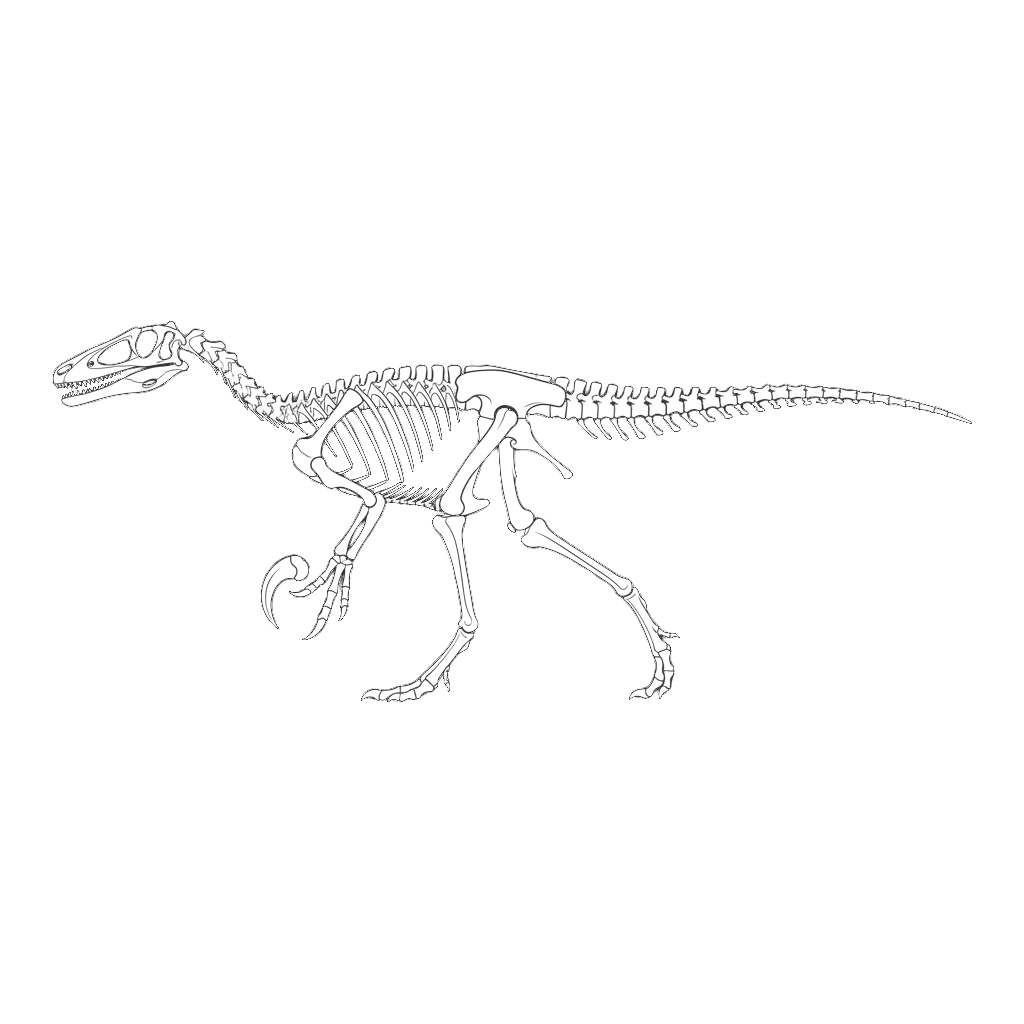
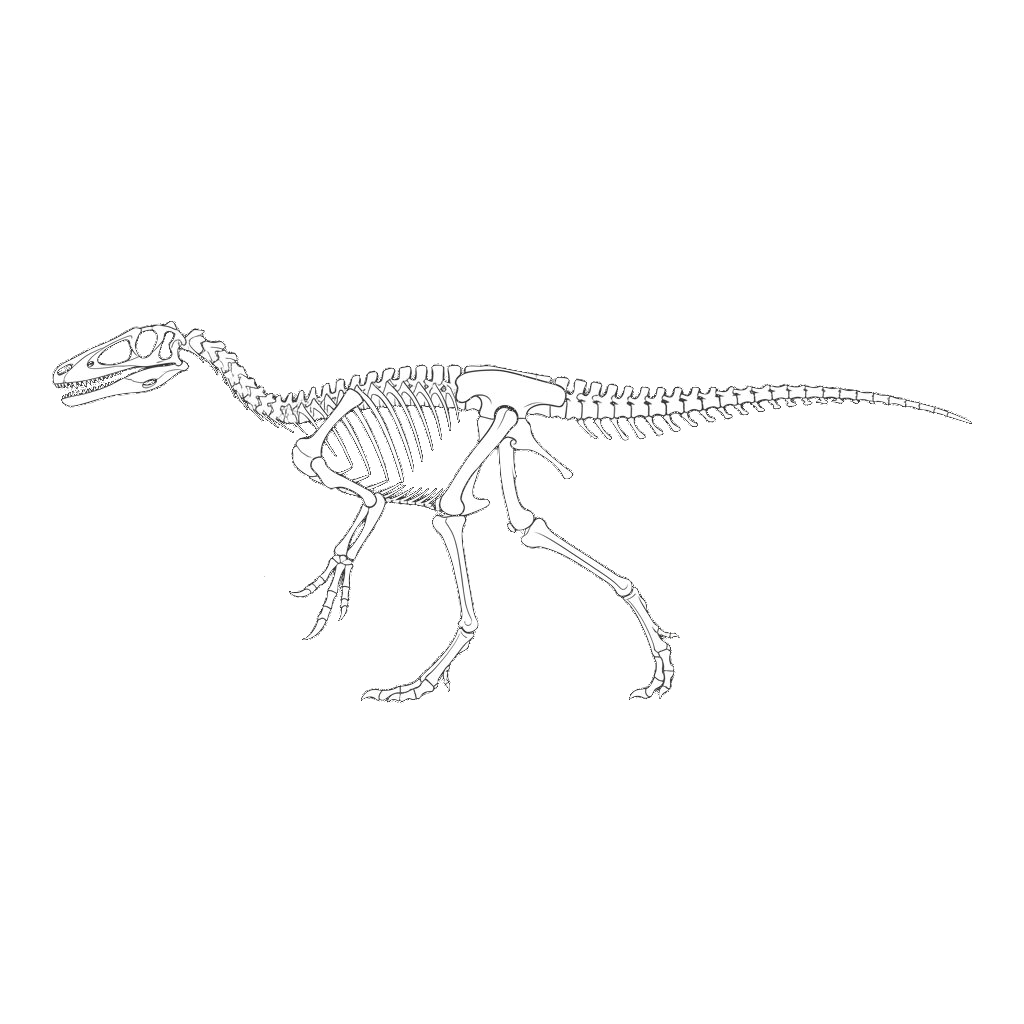
fix: アエロステオンのサイバー骨格側面図を編集版に差し替え・接地スキャン更新

diff --git a/src/content/dinosaurs/aerosteon.md b/src/content/dinosaurs/aerosteon.md
@@ -19,10 +19,10 @@ bioTraits:
     value: "巨大な鎌状のハンドクロー"
     detail: "メガラプトル類特有の強靭に発達した前肢と巨大な親指の鉤爪を振るい、獲物を逃さず拘束して切り裂いた"
 cyberMetadata:
-  bottomGap: 322
+  bottomGap: 321
   realHeight: 2.6
   realLength: 9
-  contentHeightPx: 381
+  contentHeightPx: 382
   sourceRes: 1024
   dinoLeft: "5%"
   refRight: "15%"
